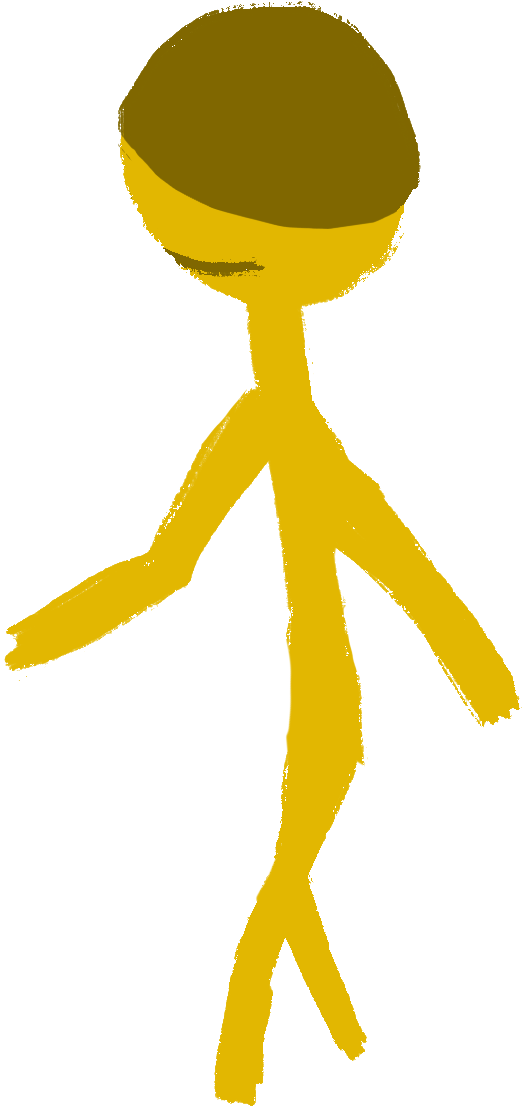
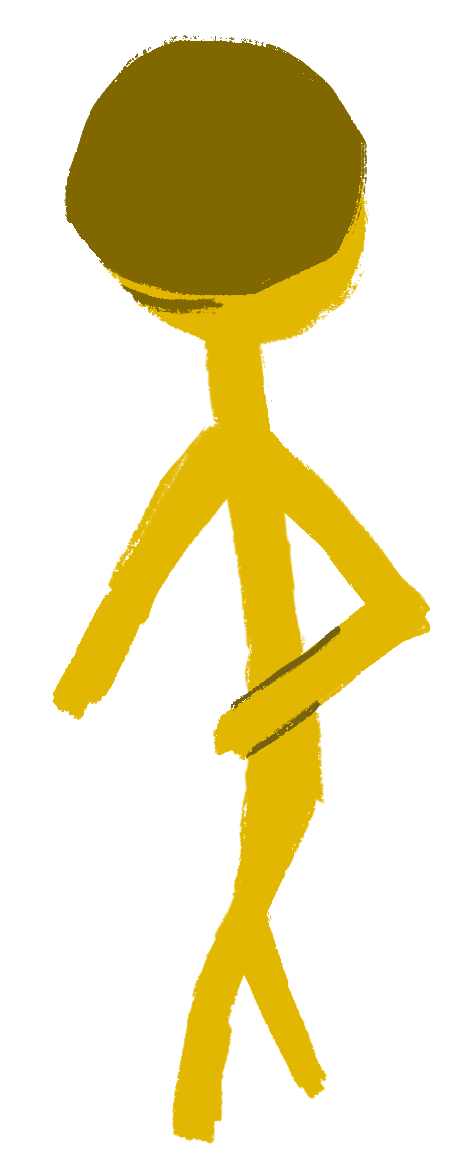
added gunz to character hand

diff --git a/js/gunz.js b/js/gunz.js
@@ -1,6 +1,8 @@
 import { topLeft, block, ctx } from "./index.js"
 import { mainPlayer } from "./character.js"
 var pd, pu, pr, pl, pur, pul, pdr, pdl, ru, rd, rl, rr, rul, rur, rdl, rdr, gunz = [];
+var before = [0, 4, 3, 5];
+var after = [1, 2, 6, 7];
 
 
 
@@ -40,10 +42,41 @@ export function importGun() {
     rdl.src = 'https://github.com/parsajbc/Zomebo/blob/main/img/guns/ray-downleft.png?raw=true';
 
 
-    gunz.push([pd, pu, pr, pl, pur, pul, pdr, pdl]);
-    gunz.push([rd, ru, rr, rl, rur, rul, rdr, rdl]);
+    gunz.push([pu, pd, pl, pr, pur, pul, pdr, pdl]);
+    gunz.push([ru, rd, rl, rr, rur, rul, rdr, rdl]);
 }
 
 export function drawGun(t) {
-    // if (mainPlayer.dir == )
+    let dir = mainPlayer.dir;
+    if (t == 0 && before.includes(dir)) {
+
+        let x = topLeft[0] + mainPlayer.x * block;
+        let y = topLeft[1] + mainPlayer.y * block;
+
+        if (dir == 0) {
+            ctx.drawImage(gunz[mainPlayer.gun][dir], x - 1.24 * block, y - 2.5 * block, 1.9 * block, 2.4 * block);
+        } else if (dir == 4) {
+            ctx.drawImage(gunz[mainPlayer.gun][dir], x - 0.2 * block, y - 2.1 * block, 1.7 * block, 2.1 * block);
+        } else if (dir == 3) {
+            ctx.drawImage(gunz[mainPlayer.gun][dir], x - 0 * block, y - 0.9 * block, 1.5 * block, 2 * block);
+        } else if (dir == 5) {
+            ctx.drawImage(gunz[mainPlayer.gun][dir], x - 1.7 * block, y - 2.1 * block, 1.5 * block, 2 * block);
+        }
+    }
+
+    if (t == 1 && after.includes(dir)) {
+
+        let x = topLeft[0] + mainPlayer.x * block;
+        let y = topLeft[1] + mainPlayer.y * block;
+
+        if (dir == 1) {
+            ctx.drawImage(gunz[mainPlayer.gun][dir], x - 1.24 * block, y - 0.1 * block, 1.9 * block, 2.4 * block);
+        } else if (dir == 2) {
+            ctx.drawImage(gunz[mainPlayer.gun][dir], x - 1.8 * block, y - 0.95 * block, 1.7 * block, 2.1 * block);
+        } else if (dir == 6) {
+            ctx.drawImage(gunz[mainPlayer.gun][dir], x - 0 * block, y - 0.9 * block, 1.5 * block, 2 * block);
+        } else if (dir == 7) {
+            ctx.drawImage(gunz[mainPlayer.gun][dir], x - 1.6 * block, y - 0.9 * block, 1.5 * block, 2 * block);
+        }
+    }
 }

diff --git a/js/animator.js b/js/animator.js
@@ -2,6 +2,7 @@ import { drawGameBoundry, drawSideWalls, drawLowerWalls, drawUpperWalls, drawTil
 import { ctx, width, height } from "./index.js"
 import { mainPlayer } from "./character.js"
 import { drawMobs } from "./mob.js"
+import { drawGun } from "./gunz.js"
 
 
 export function drawFrame() {
@@ -11,7 +12,9 @@ export function drawFrame() {
     addLights();
     drawMobs();
     mainPlayer.updatePosition();
+    drawGun(0);
     mainPlayer.draw();
+    drawGun(1);
     drawSideWalls();
     drawGameBoundry();
 }
